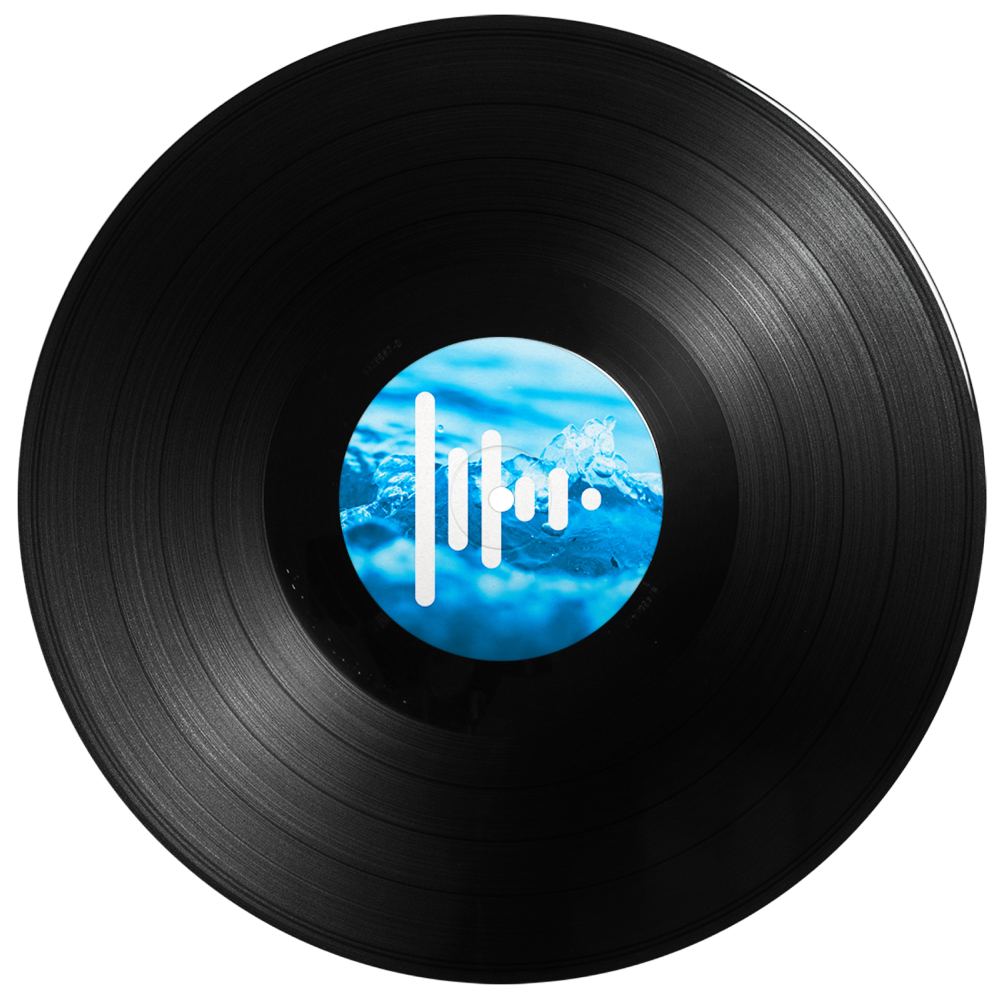
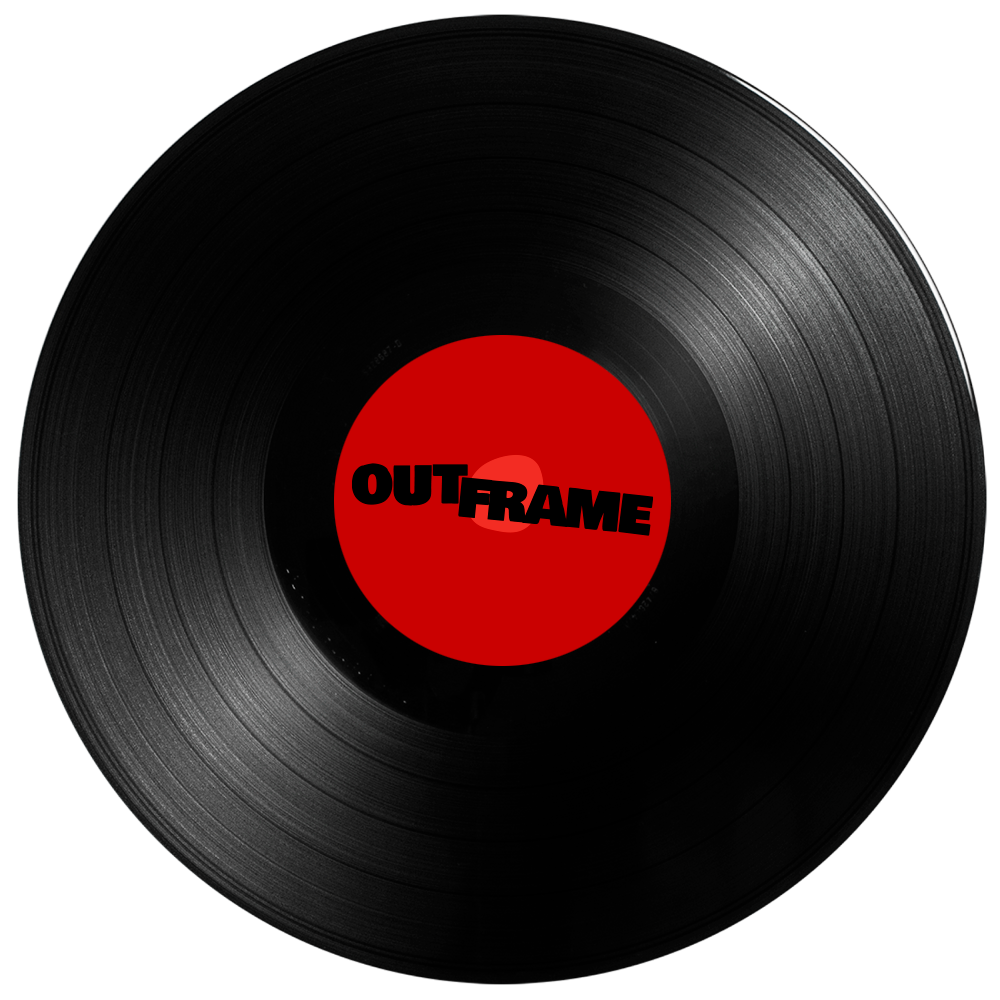
Javier

Changed region(s): [[0.31, 0.31, 0.682, 0.682]]

diff --git a/aboutus.html b/aboutus.html
@@ -31,10 +31,10 @@
             </div>
         </label>
         <nav class="menuDesktop">
-            <a class="esp" href="index.html">Inicio</a> <a class="eng" href="#">Home</a>
-            <a class="esp" href="descubrir.html">Descubrir</a> <a class="eng" href="#">Discover</a>
-            <a class="esp" href="#">Eventos</a> <a class="eng" href="#">Events</a>
-            <a class="esp" href="aboutus.html">Sobre Nosotros</a> <a class="eng" href="#">About Us</a>
+            <a class="esp" href="index.html">Inicio</a> <a class="eng" href="index.html">Home</a>
+            <a class="esp" href="descubrir.html">Descubrir</a> <a class="eng" href="descubrir.html">Discover</a>
+            <a class="esp" href="events.html">Eventos</a> <a class="eng" href="events.html">Events</a>
+            <a class="esp" href="aboutus.html">Sobre Nosotros</a> <a class="eng" href="aboutus.html">About Us</a>
         </nav>
 
         <section id="menu">
@@ -46,13 +46,16 @@
     </header>
     <main>
         <section id="VideoSobreNosotros">
-            <p id="descmarca"> <b>
+            <p class="esp" id="descmarca"><b>
                     Es una empresa que busca hacer <i>destacar</i> a esos artistas underground que buscan encontrar su
                     espacio en la industria musical.
                 </b></p>
+            <p class="eng" id="descmarca"><b>
+                    We are a brand in search for <i>attention</i> to give it to those underground artist that want their space in the music industry
+                </b></p>
         </section>
         <section id="valores">
-            <h3><b>Buscamos artistas con...</b></h3>
+            <h3 class="esp"><b>Buscamos artistas con...</b></h3><h3 class="eng"><b>We search for artist who have...</b></h3>
             <section id="flexaboutus">
                 <h3 class="esp">Personalidad!</h3>
                 <h3 class="eng">Personality!</h3>
@@ -291,17 +294,17 @@
         </section>
         <section id="organization">
             <div class="cardorg" id="o1">
-                <img src="" alt="">
-                <h4>Manuel Protasio</h4>
+                <img src="IMG/AboutUs/JavierP.png" alt="Javier">
+                <h4>Javier Herrero </h4>
                 <p>Director ejecutivo</p>
             </div>
             <div class="cardorg" id="o2">
-                <img src="" alt="">
+                <img src="IMG/AboutUs/JavierP.png" alt="">
                 <h4>Manuel Protasio</h4>
                 <p>Mente Maestra</p>
             </div>
             <div class="cardorg" id="o3">
-                <img src="" alt="">
+                <img src="IMG/AboutUs/JavierP.png" alt="">
                 <h4>Manuel Protasio</h4>
                 <p>Jefe</p>
             </div>

diff --git a/CSS/descubrirstyle.css b/CSS/descubrirstyle.css
@@ -77,23 +77,28 @@ i {
 .cardorg {
     background-color: #ac0505;
     width: 100%;
-    height: 100%;
+    height: 80%;
     border-radius: 10px;
     transition: all 1s ease;
-    display: flex;
-    justify-content: center;
-    align-items: center;
-    flex-direction: column;
+    text-align: center;
+
 }
 
 .cardorg img {
-    width: 90%;
-    height: 50%;
+    width: 80%;
+    height: 60%;
     background-color: azure;
     border-radius: 10px;
     margin-top: 10%;
 
 }
+.cardorg p{
+    margin: 0;
+}
+.cardorg h4{
+    margin: 0;
+}
+
 
 #o1 {
     grid-row: 1/3;

diff --git a/CSS/style.css b/CSS/style.css
@@ -21,7 +21,7 @@ body {
 
 #gradient {
     pointer-events: none;
-    z-index: 9;
+    z-index: 5;
     height: 100px;
     width: 100%;
     position: fixed;
@@ -289,19 +289,24 @@ input {
 #banderas {
     width: 30px;
     height: 30px;
-    z-index: 1;
+    z-index: 7;
     position: relative;
+    transition: all 0.2s ease;
+    opacity: 30%;
 }
 
 #banderas img {
     width: 100%;
-    transition: 0.2s;
     border-radius: 20px;
     animation: giroinf 4s linear infinite;
     transform-origin: center;
     position: absolute;
     top: 0;
     left: 0;
+}
+#banderas:hover {
+    transform: scale(1.1);
+    opacity: 100%;
 }
 
 #ingles {

diff --git a/CSS/items.css b/CSS/items.css
@@ -4,11 +4,9 @@
     justify-content: center;
     font-size: 2rem;
     font-family: bowlby;
-
 }
 
 #item2 {
-
     display: flex;
     align-items: center;
     justify-content: center;

diff --git a/CSS/menu.css b/CSS/menu.css
@@ -15,7 +15,7 @@ header {
 
 /* TAMAÑO DEL BOTÓN DE HAMBURGUESA */
 #btnMenu {
-    margin-top: 10px;
+    margin-top: 7px;
     margin-right: 10px;
     width: 3rem;
     height: 3rem;